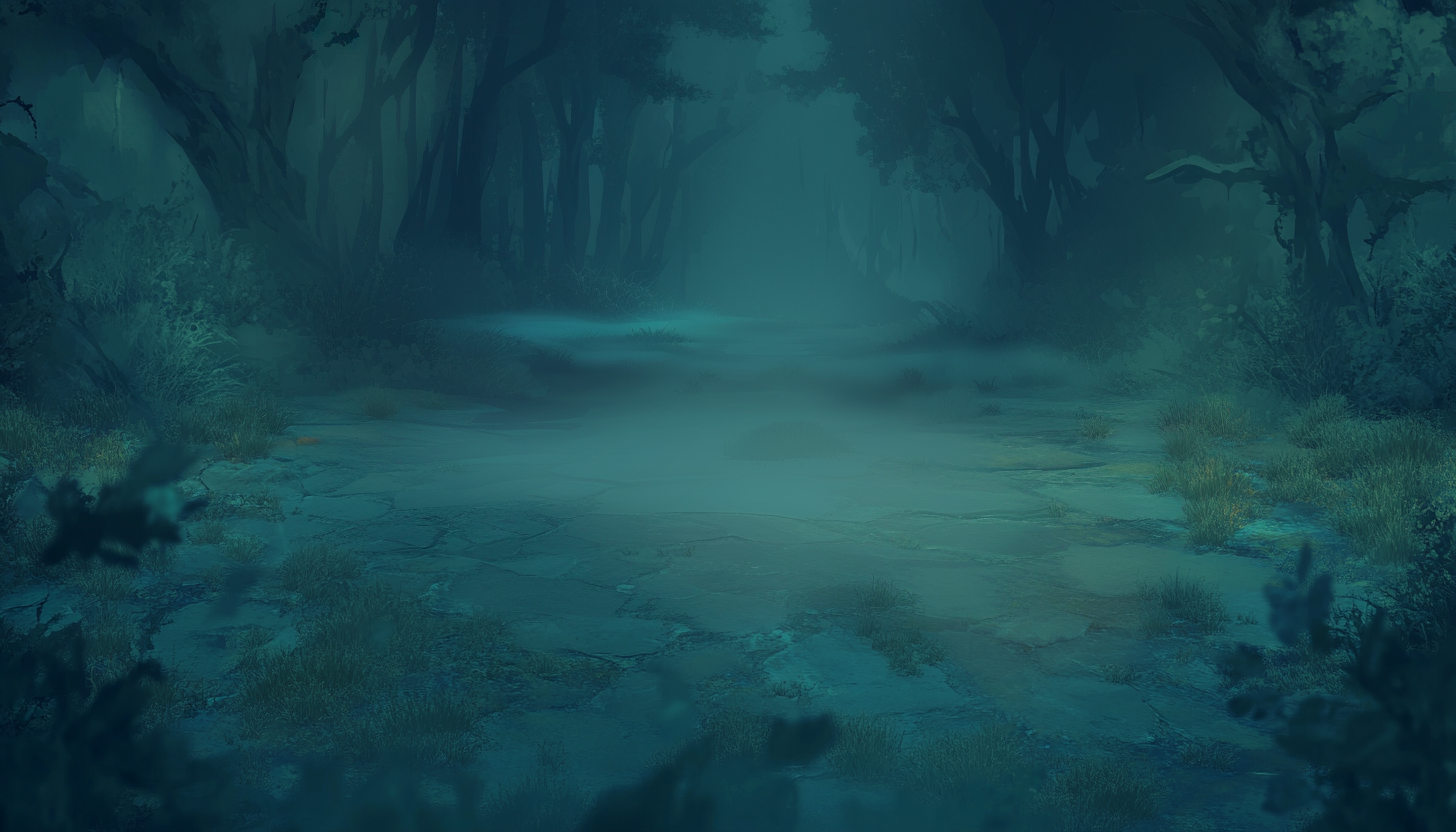
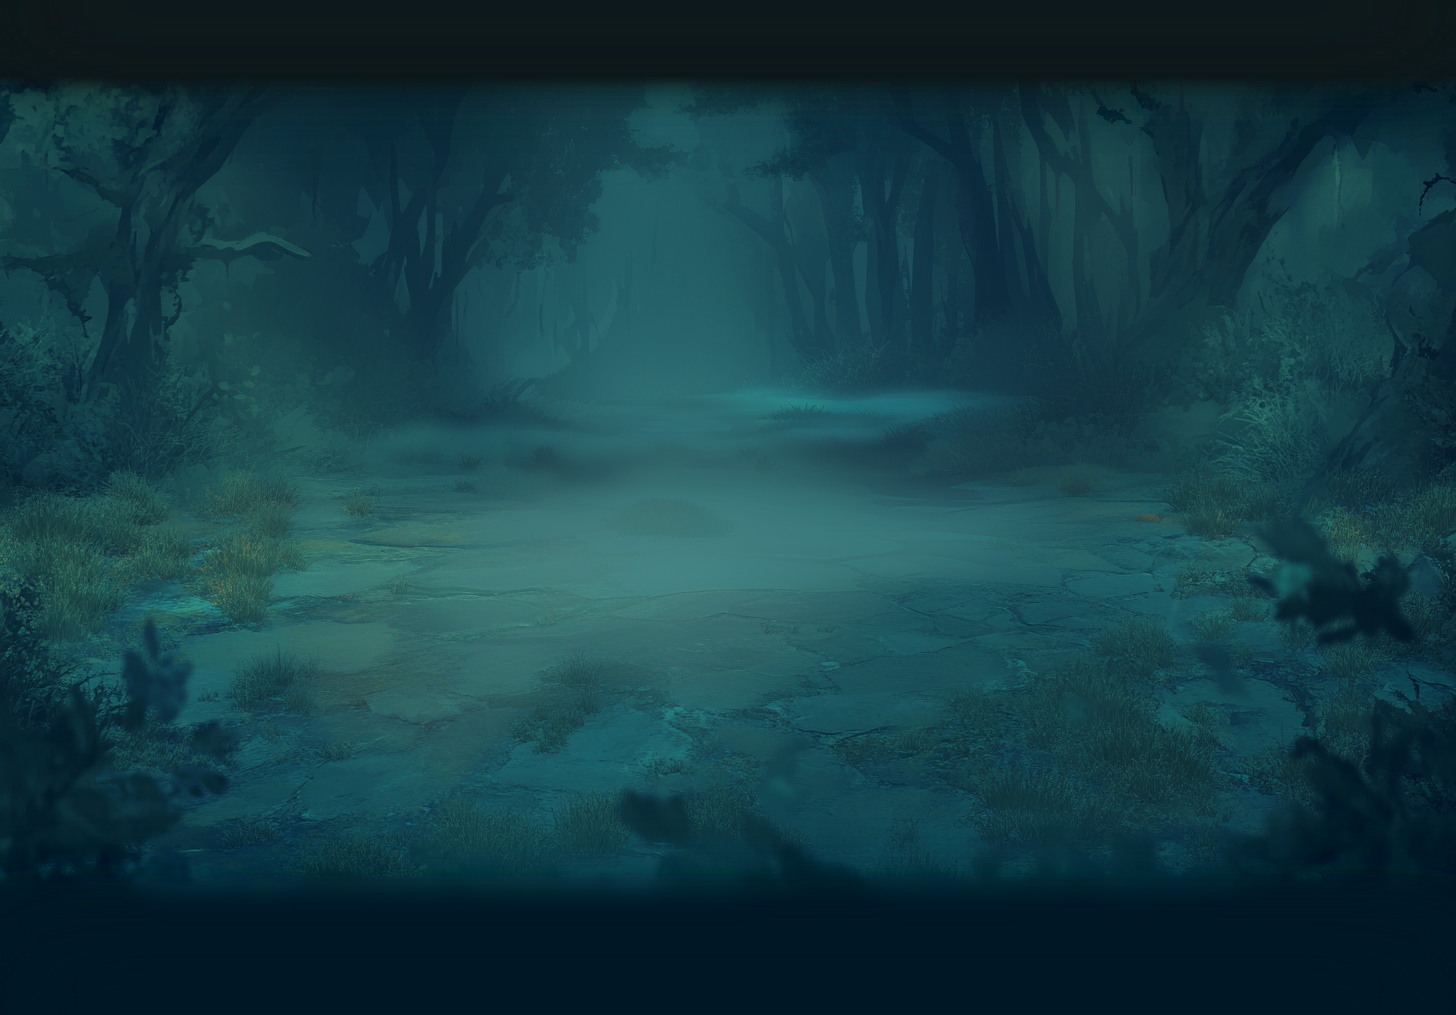
feat(landingPage): gradient backgrounds

diff --git a/pages/home/index.vue b/pages/home/index.vue
@@ -5,15 +5,15 @@
   </div>
 
   <div class="section-screenshots-container">
-    <SectionScreenShot :imgStyles="props.dialogs.imgStyles" :title="props.dialogs.title" :subTitle="props.dialogs.subTitle" :imgSrc="props.dialogs.imgSrc" />
+    <SectionScreenShot :containerStyles="props.dialogs.containerStyles" :imgStyles="props.dialogs.imgStyles" :title="props.dialogs.title" :subTitle="props.dialogs.subTitle" :imgSrc="props.dialogs.imgSrc" />
   </div>
 
   <div class="section-screenshots-container">
-    <SectionScreenShot :imgStyles="props.fight.imgStyles" :title="props.fight.title" :subTitle="props.fight.subTitle" :imgSrc="props.fight.imgSrc" />
+    <SectionScreenShot :containerStyles="props.fight.containerStyles" :imgStyles="props.fight.imgStyles" :title="props.fight.title" :subTitle="props.fight.subTitle" :imgSrc="props.fight.imgSrc" />
   </div>
 
   <div class="section-screenshots-container">
-    <SectionScreenShot :imgStyles="props.cityWalk.imgStyles" :title="props.cityWalk.title" :subTitle="props.cityWalk.subTitle" :imgSrc="props.cityWalk.imgSrc" />
+    <SectionScreenShot :containerStyles="props.cityWalk.containerStyles" :imgStyles="props.cityWalk.imgStyles" :title="props.cityWalk.title" :subTitle="props.cityWalk.subTitle" :imgSrc="props.cityWalk.imgSrc" />
   </div>
 
 </template>
@@ -22,23 +22,44 @@
   import SectionLanding from "/pages/home/components/sections/section-landing/section-landing.vue";
   import SectionScreenShot from "/pages/home/components/sections/section-screenshots/section-screenshots.vue";
 
+  // #041f2b
+  // #001724
   const props = {
     dialogs: {
       title: 'Unveil the shattered truth.',
       subTitle: 'Dragged into a fractured reality, you face relentless trials in a rogue-lite adventure where every run shapes your legend. Battle otherworldly forces, adapt, and rise—or be lost to the echoes of a crumbling world.',
-      imgSrc: '/images/Animation.gif'
+      imgSrc: '/images/Animation.gif',
+      containerStyles: {
+        backgroundColor: '#0d181a',
+        padding: '0 0 85px 0'
+      }
     },
     fight: {
       title: 'Unveil the shattered truth.',
       subTitle: 'Dragged into a fractured reality, you face relentless trials in a rogue-lite adventure where every run shapes your legend. Battle otherworldly forces, adapt, and rise—or be lost to the echoes of a crumbling world.',
       imgSrc: '/images/animation-fight.gif',
-      imgStyles: {border: '15px solid white'}
+      imgStyles: {
+        border: '15px solid white',
+        maxHeight: '60vh',
+      },
+      containerStyles: {
+        background: 'url("/images/bg.png") no-repeat center center',
+        backgroundSize: '100% 100%',
+        padding: '185px 0'
+      }
     },
     cityWalk: {
       title: 'Unveil the shattered truth.',
       subTitle: 'Dragged into a fractured reality, you face relentless trials in a rogue-lite adventure where every run shapes your legend. Battle otherworldly forces, adapt, and rise—or be lost to the echoes of a crumbling world.',
       imgSrc: '/images/animation-city-walk.gif',
-      imgStyles: {border: '15px solid white'}
+      imgStyles: {
+        border: '15px solid white',
+        maxHeight: '60vh',
+      },
+      containerStyles: {
+        backgroundColor: '#001724',
+        padding: '0 0 85px 0'
+      }
     }
   }
 
@@ -47,13 +68,10 @@
 <style lang="scss" scoped>
   .section {
     height: 850px;
-    background-color: #0f1a1c;
   }
 
   .section-screenshots-container {
-    height: 850px;
-    background-color: #0f1a1c;
-    padding: 100px;
+
   }
 
 </style>

diff --git a/pages/home/components/sections/section-screenshots/section-screenshots.vue b/pages/home/components/sections/section-screenshots/section-screenshots.vue
@@ -1,6 +1,6 @@
 <template>
 
-  <div class="section-screenshots">
+  <div :style="containerStyles" class="section-screenshots">
     <div class="screenshot-title">
       {{ title }}
     </div>
@@ -17,7 +17,8 @@
     title?: string;
     subTitle?: string;
     imgSrc?: string;
-    imgStyles?: Object
+    imgStyles?: Object;
+    containerStyles?: Object;
   }>()
 </script>
 
@@ -27,6 +28,7 @@
     display: flex;
     align-items: center;
     justify-content: center;
+    height: 100%;
 
     flex-direction: column;
     gap: 40px;

diff --git a/pages/home/components/sections/section-landing/section-landing.vue b/pages/home/components/sections/section-landing/section-landing.vue
@@ -37,7 +37,7 @@
 <style lang="scss">
 .section-landing {
   height: 100%;
-  background: url('/images/bg21.png') no-repeat center center;
+  background: url('/images/bg22.png') no-repeat center center;
   background-size: cover;
 
   .absolute-content {
